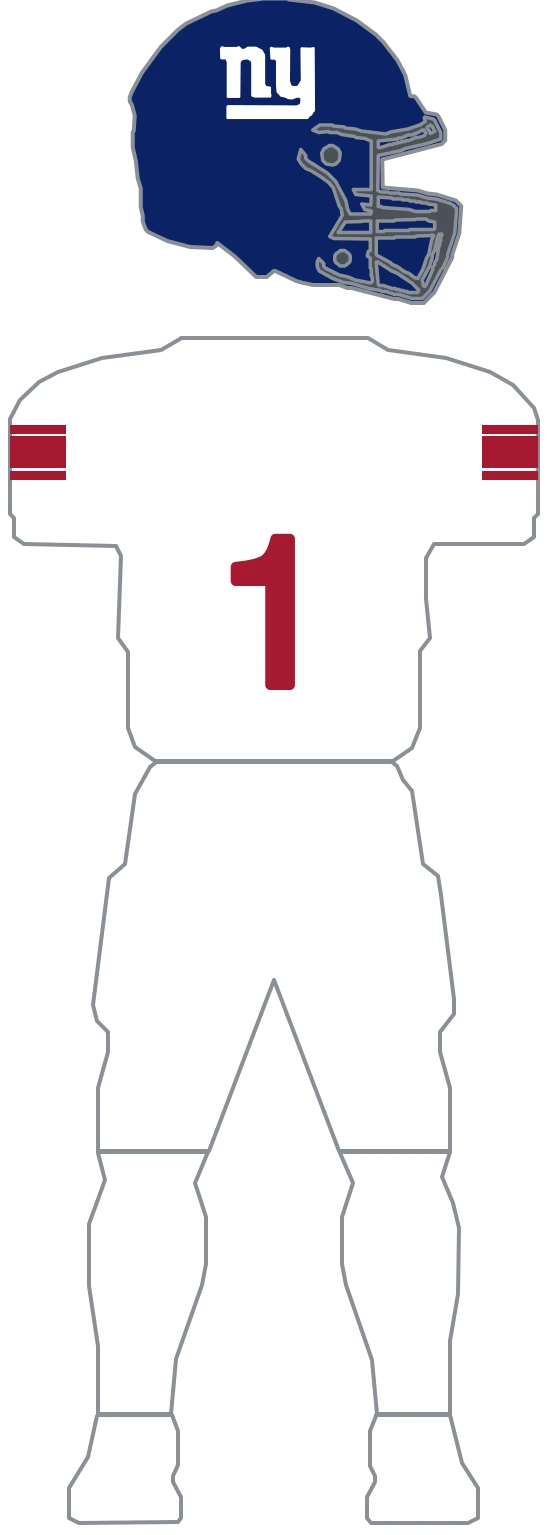
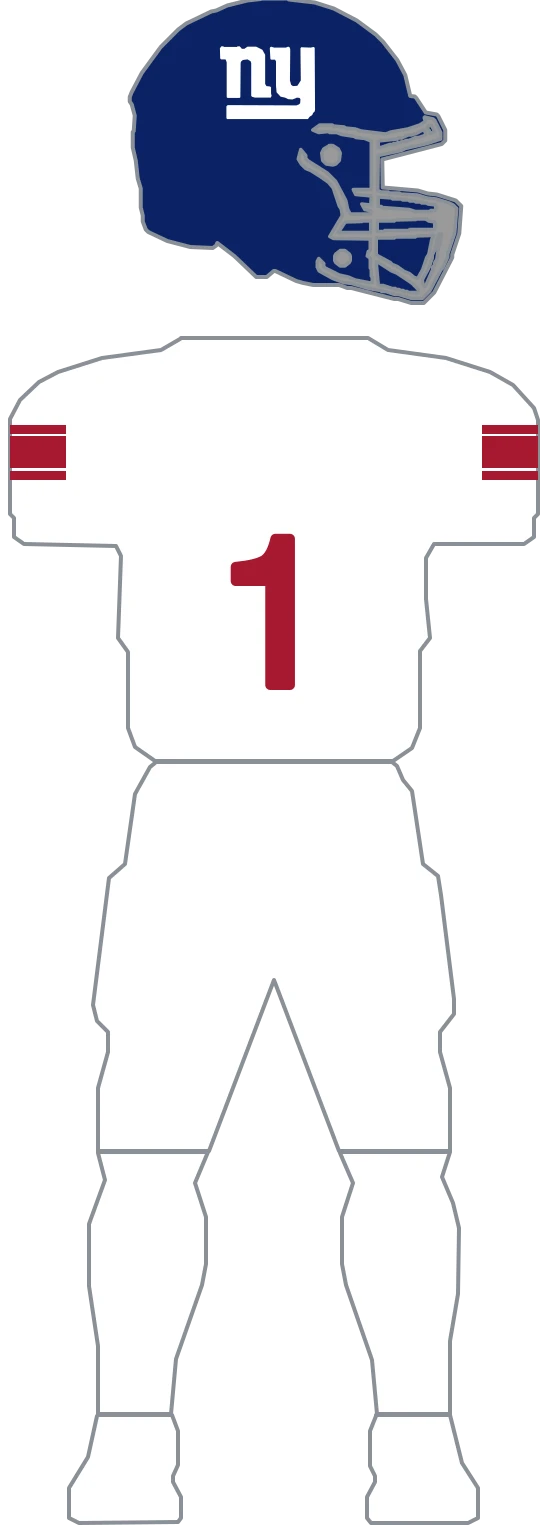
feat(uniforms): migrate Giants to composable parts and set its grey + white facemasks (#676)
The three Giants kits do not share one construction: the royal home jersey has
no sleeve stripes, the white away jersey carries a thin/thick/thin red set,
and the 1980s throwback carries a red/white/red set at the cuff plus the only
collar trim. What IS shared: home and away wear the SAME blue shell with the
white monogram, and all three wear white pants. The throwback shell is bare
(the wordmark is out of scope), which is the second helmet part. Parts express
that: 2 helmets (H1 blue monogram, H2 bare blue), 3 jerseys (J1 royal, J2
white, J3 throwback), 1 pants (P1 white), matching the measured target. Royal
and red are physical fixed colors across the three rows' primary/secondary/
accent slots; parts name them from a team palette.

The migration's parity gate proved all 9 giants rasters (3 kits x 2 variants)
byte-identical against the flat definition, then the flat definition and its
builder helpers were deleted and the team removed from MIGRATED, per the
one-time-proof lifecycle (depth#660).

Facemask follows the parts migration per phase order: the modern metallic
blue shell wears a grey cage (named sources; the GUD composite reads it at
~#9a9a9a), and the 1980-1999 Legacy-era bare shell wears a white cage (named
sources; GUD can't separate white from the blues). Only the three -full
rasters move, each change confined to its helmet region (verified
pixel-diffed).

diff --git a/lib/uniforms/teams/giants.parts.ts b/lib/uniforms/teams/giants.parts.ts
@@ -1,0 +1,168 @@
+// New York authored as composable parts. Geometry is imported unchanged from giants.ts — this
+// file only restates WHICH parts each kit combines, and names every color from the team palette
+// instead of the kit row's shifting primary/secondary/accent.
+//
+// The three kits do not share one construction: the royal home jersey has NO sleeve stripes, the
+// white away jersey carries a thin/thick/thin red set, and the 1980s throwback carries a
+// red/white/red set at the cuff plus the only collar trim. What IS shared: home and away wear the
+// SAME blue shell with the white monogram, and all three wear white pants. The throwback's shell
+// is bare (a GIANTS wordmark that is out of scope, not a borrowed monogram) — so it is the second
+// helmet part, same blue, different layers.
+
+import {
+  GIANTS_AWAY_SLEEVE_X_LEFT,
+  GIANTS_AWAY_SLEEVE_X_RIGHT,
+  GIANTS_AWAY_STRIPE_BANDS,
+  GIANTS_COLLAR_CORE_WIDTH,
+  GIANTS_COLLAR_OUTER_WIDTH,
+  GIANTS_DECAL_MONOGRAM_PATH,
+  GIANTS_THROWBACK_SLEEVE_X_LEFT,
+  GIANTS_THROWBACK_SLEEVE_X_RIGHT,
+  GIANTS_THROWBACK_STRIPE_BANDS,
+} from './giants';
+import { compileParts, type PartLayer, type TeamPartsDefinition, type UniformPart } from './parts';
+import type { UniformSurface } from './types';
+
+const COLLAR_PATH = 'M206,388 L294,455 L386,388';
+
+function sleeveStripes(
+  bands: [number, number][],
+  xLeft: number[],
+  xRight: number[],
+  fills: string[]
+): PartLayer[] {
+  const out: PartLayer[] = [];
+  const sides: [UniformSurface, number[]][] = [
+    ['sleeve-left', xLeft],
+    ['sleeve-right', xRight],
+  ];
+  bands.forEach(([top, bottom], i) => {
+    for (const [surface, [x0, x1]] of sides) {
+      const side = surface === 'sleeve-left' ? 'left' : 'right';
+      out.push({
+        id: `giants-sleeve-stripe-${i}-${side}`,
+        surface,
+        d: `M${x0},${top} H${x1} V${bottom} H${x0} Z`,
+        clip: true,
+        kind: 'fill',
+        fill: fills[i],
+      });
+    }
+  });
+  return out;
+}
+
+// The blue shell with the white monogram — one object, shared by home and away.
+//
+// Grey cage. The modern metallic-blue shell carries a grey facemask (named sources; the GUD
+// composite reads the bars at ~#9a9a9a against the blue shell). The shared neutral #4b5158 it
+// replaces is a noticeably darker grey.
+const HELMET_BLUE_MONOGRAM: UniformPart = {
+  base: 'royal',
+  facemask: 'cageGrey',
+  layers: [
+    {
+      id: 'giants-decal-monogram',
+      surface: 'helmet',
+      d: GIANTS_DECAL_MONOGRAM_PATH,
+      clip: true,
+      kind: 'fill',
+      fill: 'white',
+    },
+  ],
+};
+
+// The throwback's bare blue shell — the wordmark is out of scope, so it keeps the shell color and
+// nothing else (this is the second helmet part: same shell, no monogram).
+//
+// White cage. The 1980-1999 era (restored as the Legacy look) wore a navy shell with a WHITE
+// facemask (giantswire: "navy with a white facemask"; pocketprohelmets notes the 1975 switch from
+// grey to white). GUD cannot cleanly separate a white cage from the surrounding blues, so the
+// named sources are the source of truth here.
+const HELMET_BLUE_BARE: UniformPart = { base: 'royal', facemask: 'white', layers: [] };
+
+// Home jersey: royal body, no sleeve stripes, white numerals.
+const JERSEY_ROYAL: UniformPart = {
+  base: 'royal',
+  layers: [],
+  number: { fill: 'white', outline: 'white', outlineWidth: 10 },
+};
+
+// Away jersey: white body, thin/thick/thin red sleeve stripes, red numerals.
+const JERSEY_WHITE: UniformPart = {
+  base: 'white',
+  layers: sleeveStripes(
+    GIANTS_AWAY_STRIPE_BANDS,
+    GIANTS_AWAY_SLEEVE_X_LEFT,
+    GIANTS_AWAY_SLEEVE_X_RIGHT,
+    ['red', 'red', 'red']
+  ),
+  number: { fill: 'red', outline: 'red', outlineWidth: 10 },
+};
+
+// The 1980s throwback jersey: royal body, red/white/red cuff stripes, a red-over-white collar,
+// white numerals keylined red.
+const JERSEY_THROWBACK: UniformPart = {
+  base: 'royal',
+  layers: [
+    ...sleeveStripes(
+      GIANTS_THROWBACK_STRIPE_BANDS,
+      GIANTS_THROWBACK_SLEEVE_X_LEFT,
+      GIANTS_THROWBACK_SLEEVE_X_RIGHT,
+      ['red', 'white', 'red']
+    ),
+    {
+      id: 'giants-collar-outer',
+      surface: 'collar',
+      d: COLLAR_PATH,
+      clip: true,
+      kind: 'stroke',
+      stroke: 'red',
+      strokeWidth: GIANTS_COLLAR_OUTER_WIDTH,
+    },
+    {
+      id: 'giants-collar-core',
+      surface: 'collar',
+      d: COLLAR_PATH,
+      clip: true,
+      kind: 'stroke',
+      stroke: 'white',
+      strokeWidth: GIANTS_COLLAR_CORE_WIDTH,
+    },
+  ],
+  number: { fill: 'white', outline: 'red', outlineWidth: 14 },
+};
+
+// Plain white pants, shared by every kit.
+const PANTS_WHITE: UniformPart = { base: 'white', layers: [] };
+
+export const GIANTS_PARTS: TeamPartsDefinition = {
+  teamId: 'giants',
+  // Jersey hexes from the curated rows (teamcolorcodes). Royal and red are physical fixed colors
+  // that the three rows carry across different primary/secondary/accent slots (royal is home and
+  // throwback primary, away secondary; red is home and away accent, throwback secondary).
+  palette: {
+    royal: '#0B2265',
+    // White is a literal on home and the throwback (no white token on those rows); the away row
+    // carries it as primary.
+    white: '#FFFFFF',
+    red: '#A71930',
+    // The modern shell's cage grey — no token in the blue/red/white Giants palette. Sampled from
+    // the GUD composite (see the helmet note); matches the documented grey facemask.
+    cageGrey: '#9A9A9A',
+  },
+  helmets: { 'blue-monogram': HELMET_BLUE_MONOGRAM, 'blue-bare': HELMET_BLUE_BARE },
+  jerseys: {
+    royal: JERSEY_ROYAL,
+    white: JERSEY_WHITE,
+    throwback: JERSEY_THROWBACK,
+  },
+  pants: { white: PANTS_WHITE },
+  kits: {
+    home: { helmet: 'blue-monogram', jersey: 'royal', pants: 'white' },
+    away: { helmet: 'blue-monogram', jersey: 'white', pants: 'white' },
+    '1980s-throwback': { helmet: 'blue-bare', jersey: 'throwback', pants: 'white' },
+  },
+};
+
+export const GIANTS_UNIFORMS_FROM_PARTS = compileParts(GIANTS_PARTS);

diff --git a/lib/uniforms/teams/giants.ts b/lib/uniforms/teams/giants.ts
@@ -1,20 +1,7 @@
-import type { ColorRef, TeamUniformDefinition, UniformLayer, UniformSurface } from './types';
-
-// New York's three archived kits, redrawn from the Gridiron Uniform Database 2025 composite in
-// nfl-uniform-refs/giants (home is that sheet's row-1 figure 1, the throwback its row-1 figure 3,
-// away its row-2 figure 1). Sleeve and collar paths use the outer 588-wide mannequin space; the
-// helmet decal stays in raw helmet coordinates (x:139-802, y:65-674). Right paths mirror the left
-// across the centerline x=294 (mirroredX = 588 - x).
-//
-// The three kits do not share one construction, and the home/away split is the surprise: the royal
-// home jersey has NO sleeve stripes at all — scanned to confirm, since white bands would be plainly
-// visible on that body — while the white away jersey carries a thin/thick/thin red set. The
-// throwback carries a different set again, red/white/red at the cuff, plus the only collar trim of
-// the three. No kit has a pant stripe; all three wear white pants.
-//
-// The throwback's shell is left bare on purpose. That helmet carries a "GIANTS" wordmark rather
-// than the modern monogram, and wordmarks are out of scope on every kit — so it inherits the shell
-// color and nothing else, instead of borrowing the "ny" that belongs to the other two.
+// New York's construction geometry — the monogram path and the sleeve/collar constants only.
+// The composable parts definition that consumes them lives in ./giants.parts.ts; the former flat
+// GIANTS_UNIFORMS was deleted in the migration that proved parts render byte-identically (see
+// parts-parity.test.ts for the one-time gate).
 
 // White is a literal on home and the throwback. Both palettes are blue over red with no white
 // token (home has accent === secondary from ESPN; the throwback's accent is white but is spent on
@@ -53,123 +40,5 @@ export const GIANTS_THROWBACK_SLEEVE_X_RIGHT = [486, 558];
 
 // Only the throwback carries collar trim: a red band with a white core, about 5 reference px
 // across, which is roughly 16 mannequin units.
-const COLLAR_PATH = 'M206,388 L294,455 L386,388';
 export const GIANTS_COLLAR_OUTER_WIDTH = 18;
 export const GIANTS_COLLAR_CORE_WIDTH = 7;
-
-const GENERIC_STRIPPED = [
-  'generic-helmet-stripe',
-  'generic-sleeve-yoke-left',
-  'generic-sleeve-yoke-right',
-  'generic-sleeve-stripe-left',
-  'generic-sleeve-stripe-right',
-  'generic-collar',
-  'generic-pants-stripe-left',
-  'generic-pants-stripe-right',
-];
-
-// Two kits, two different band sets — so the factory takes the bands rather than assuming them.
-function sleeveStripes(
-  bands: [number, number][],
-  xLeft: number[],
-  xRight: number[],
-  fills: ColorRef[]
-): UniformLayer[] {
-  const out: UniformLayer[] = [];
-  const sides: [UniformSurface, number[]][] = [
-    ['sleeve-left', xLeft],
-    ['sleeve-right', xRight],
-  ];
-
-  bands.forEach(([top, bottom], i) => {
-    for (const [surface, [x0, x1]] of sides) {
-      const side = surface === 'sleeve-left' ? 'left' : 'right';
-      out.push({
-        id: `giants-sleeve-stripe-${i}-${side}`,
-        surface,
-        d: `M${x0},${top} H${x1} V${bottom} H${x0} Z`,
-        clip: true,
-        kind: 'fill',
-        fill: fills[i],
-      });
-    }
-  });
-
-  return out;
-}
-
-function monogram(fill: ColorRef): UniformLayer[] {
-  return [
-    {
-      id: 'giants-decal-monogram',
-      surface: 'helmet',
-      d: GIANTS_DECAL_MONOGRAM_PATH,
-      clip: true,
-      kind: 'fill',
-      fill,
-    },
-  ];
-}
-
-export const GIANTS_UNIFORMS: TeamUniformDefinition = {
-  teamId: 'giants',
-  // Every kit wears white pants and strips the generic model; nothing else is shared.
-  defaults: {
-    pantsColor: GIANTS_WHITE,
-    removeLayerIds: GENERIC_STRIPPED,
-  },
-  kits: {
-    // Royal body under a bare blue shell carrying only the monogram. No sleeve stripes and no
-    // collar trim — the reference's sleeves are unbroken royal apart from the TV numerals.
-    home: {
-      layers: monogram(GIANTS_WHITE),
-      number: { fill: GIANTS_WHITE, outline: GIANTS_WHITE, outlineWidth: 10 },
-    },
-    // White body, same blue shell, red numerals — and the thin/thick/thin red sleeve set the home
-    // kit does not have.
-    away: {
-      helmetColor: 'secondary',
-      layers: [
-        ...monogram(GIANTS_WHITE),
-        ...sleeveStripes(
-          GIANTS_AWAY_STRIPE_BANDS,
-          GIANTS_AWAY_SLEEVE_X_LEFT,
-          GIANTS_AWAY_SLEEVE_X_RIGHT,
-          ['accent', 'accent', 'accent']
-        ),
-      ],
-      number: { fill: 'accent', outline: 'accent', outlineWidth: 10 },
-    },
-    // The 1980s kit: royal body, red/white/red at the cuff, a red-over-white collar, and white
-    // numerals keylined red. Its shell stays bare — see the header note on the wordmark.
-    '1980s-throwback': {
-      layers: [
-        ...sleeveStripes(
-          GIANTS_THROWBACK_STRIPE_BANDS,
-          GIANTS_THROWBACK_SLEEVE_X_LEFT,
-          GIANTS_THROWBACK_SLEEVE_X_RIGHT,
-          ['secondary', 'accent', 'secondary']
-        ),
-        {
-          id: 'giants-collar-outer',
-          surface: 'collar',
-          d: COLLAR_PATH,
-          clip: true,
-          kind: 'stroke',
-          stroke: 'secondary',
-          strokeWidth: GIANTS_COLLAR_OUTER_WIDTH,
-        },
-        {
-          id: 'giants-collar-core',
-          surface: 'collar',
-          d: COLLAR_PATH,
-          clip: true,
-          kind: 'stroke',
-          stroke: 'accent',
-          strokeWidth: GIANTS_COLLAR_CORE_WIDTH,
-        },
-      ],
-      number: { fill: 'accent', outline: 'secondary', outlineWidth: 14 },
-    },
-  },
-};

diff --git a/lib/uniforms/teams/index.ts b/lib/uniforms/teams/index.ts
@@ -14,7 +14,7 @@ import { COWBOYS_UNIFORMS_FROM_PARTS } from './cowboys.parts';
 import { DOLPHINS_UNIFORMS } from './dolphins';
 import { EAGLES_UNIFORMS } from './eagles';
 import { FALCONS_UNIFORMS_FROM_PARTS } from './falcons.parts';
-import { GIANTS_UNIFORMS } from './giants';
+import { GIANTS_UNIFORMS_FROM_PARTS } from './giants.parts';
 import { JAGUARS_UNIFORMS } from './jaguars';
 import { JETS_UNIFORMS } from './jets';
 import { LIONS_UNIFORMS } from './lions';
@@ -54,7 +54,7 @@ chiefs: CHIEFS_UNIFORMS_FROM_PARTS,
   '49ers': NINERS_UNIFORMS_FROM_PARTS,
   eagles: EAGLES_UNIFORMS,
   falcons: FALCONS_UNIFORMS_FROM_PARTS,
-  giants: GIANTS_UNIFORMS,
+  giants: GIANTS_UNIFORMS_FROM_PARTS,
   jaguars: JAGUARS_UNIFORMS,
   jets: JETS_UNIFORMS,
   lions: LIONS_UNIFORMS,
